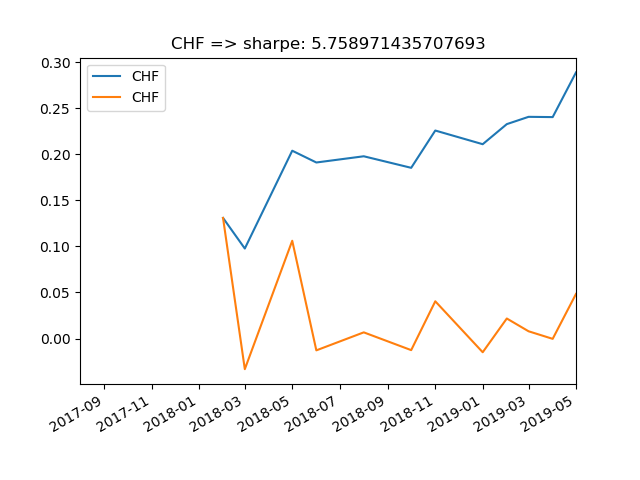
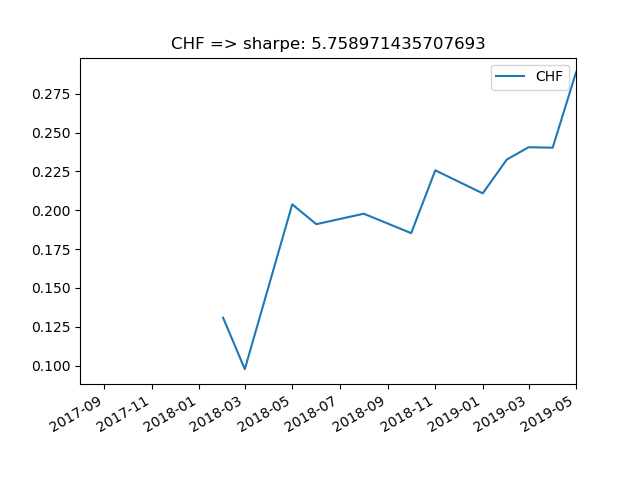
update

diff --git a/RER.py b/RER.py
@@ -117,9 +117,10 @@ def backtest(signal, actual_price_series, plot_title="", debug = False, plot_ind
     portfolio_prices = aligned_signal * actual_price_series
         
     # Calculate returns on the signal
-#    returns_1 = portfolio_prices.diff()
+#    returns = portfolio_prices.diff()
     
     returns = (actual_price_series.diff() * aligned_signal)   #.rename("Cumulative Returns")
+    returns["overall"] = returns.sum(axis=1)
 
         
     overall_return = returns.sum()
@@ -141,13 +142,13 @@ def backtest(signal, actual_price_series, plot_title="", debug = False, plot_ind
             
             else:
                 returns[ccy].cumsum().plot()
-                returns[ccy].plot()
+#                returns[ccy].plot()
         
             plt.title("{0} => sharpe: {1}".format(ccy, sharpe[ccy]))
             plt.legend()
             plt.savefig("{0}.png".format(ccy))
     
-         
+
 
 # Due to a lack of data, we will use an expanding window with a minimum window size of 3months to do out of sample testing
 ccy = "EUR"
@@ -173,6 +174,12 @@ for ccy in investigated_ccys:
     forecasted_return = []
     dates = []
     
+#    plt.figure()
+#    plt.title("Out of Sample Test for {0}".format(ccy) )
+#    plt.ylabel("Change in real exchange rates after 3 months (normalised)")
+#    plt.xlabel("Real exchange rates (normalised)")
+#    
+    
     for window_end_date in ending_date_array:
         
         windowed_RER = RER[:window_end_date - pd.Timedelta(weeks=1)]
@@ -188,13 +195,17 @@ for ccy in investigated_ccys:
         
         Y_pred = linear_regressor.predict(np.array([[RER[window_end_date]]]))  # make predictions
         
+#        Y_pred = linear_regressor.predict(RER[:window_end_date].values.reshape(-1,1))  # make predictions
+        
         forecasted_spot.append( combined[ccy].iloc[-1] - Y_pred[0][0] )
         forecasted_return.append(-Y_pred[0][0])
         
         dates.append(window_end_date)
         
-    #    plt.scatter(windowed_RER, diff)
-    #    plt.scatter([RER[window_end_date]], Y_pred, color='red')
+        
+#        plt.scatter(windowed_RER, diff)
+#        plt.plot(RER[:window_end_date], Y_pred, color='red')
+#        plt.savefig("oostest_{0}".format(ccy))
     
     
 #    forecasted_df.index = dates
@@ -225,7 +236,7 @@ spots = spots.align(combined_signal, join='right')[0]
 
 cov = spots.ewm(halflife=6, min_periods = 6).std()   # Use shrinkage = 1 (i.e. ignore covariance)
 MVO_optimised = combined_signal / cov
-MVO_optimised.plot()
+#MVO_optimised.plot()
 
 backtest(MVO_optimised, spots, plot_title=ccy, debug=False, plot_individual=True)
 
@@ -233,7 +244,6 @@ backtest(MVO_optimised, spots, plot_title=ccy, debug=False, plot_individual=True
 
 
 # Perform a mean variance optimisation
-#RERs = pd.concat([get_RER(ccy, monthly=True) for ccy in investigated_ccys], axis=1, sort=True).dropna()
 #
 #cov = RERs.ewm(halflife=6, min_periods = 12).std()
 #
